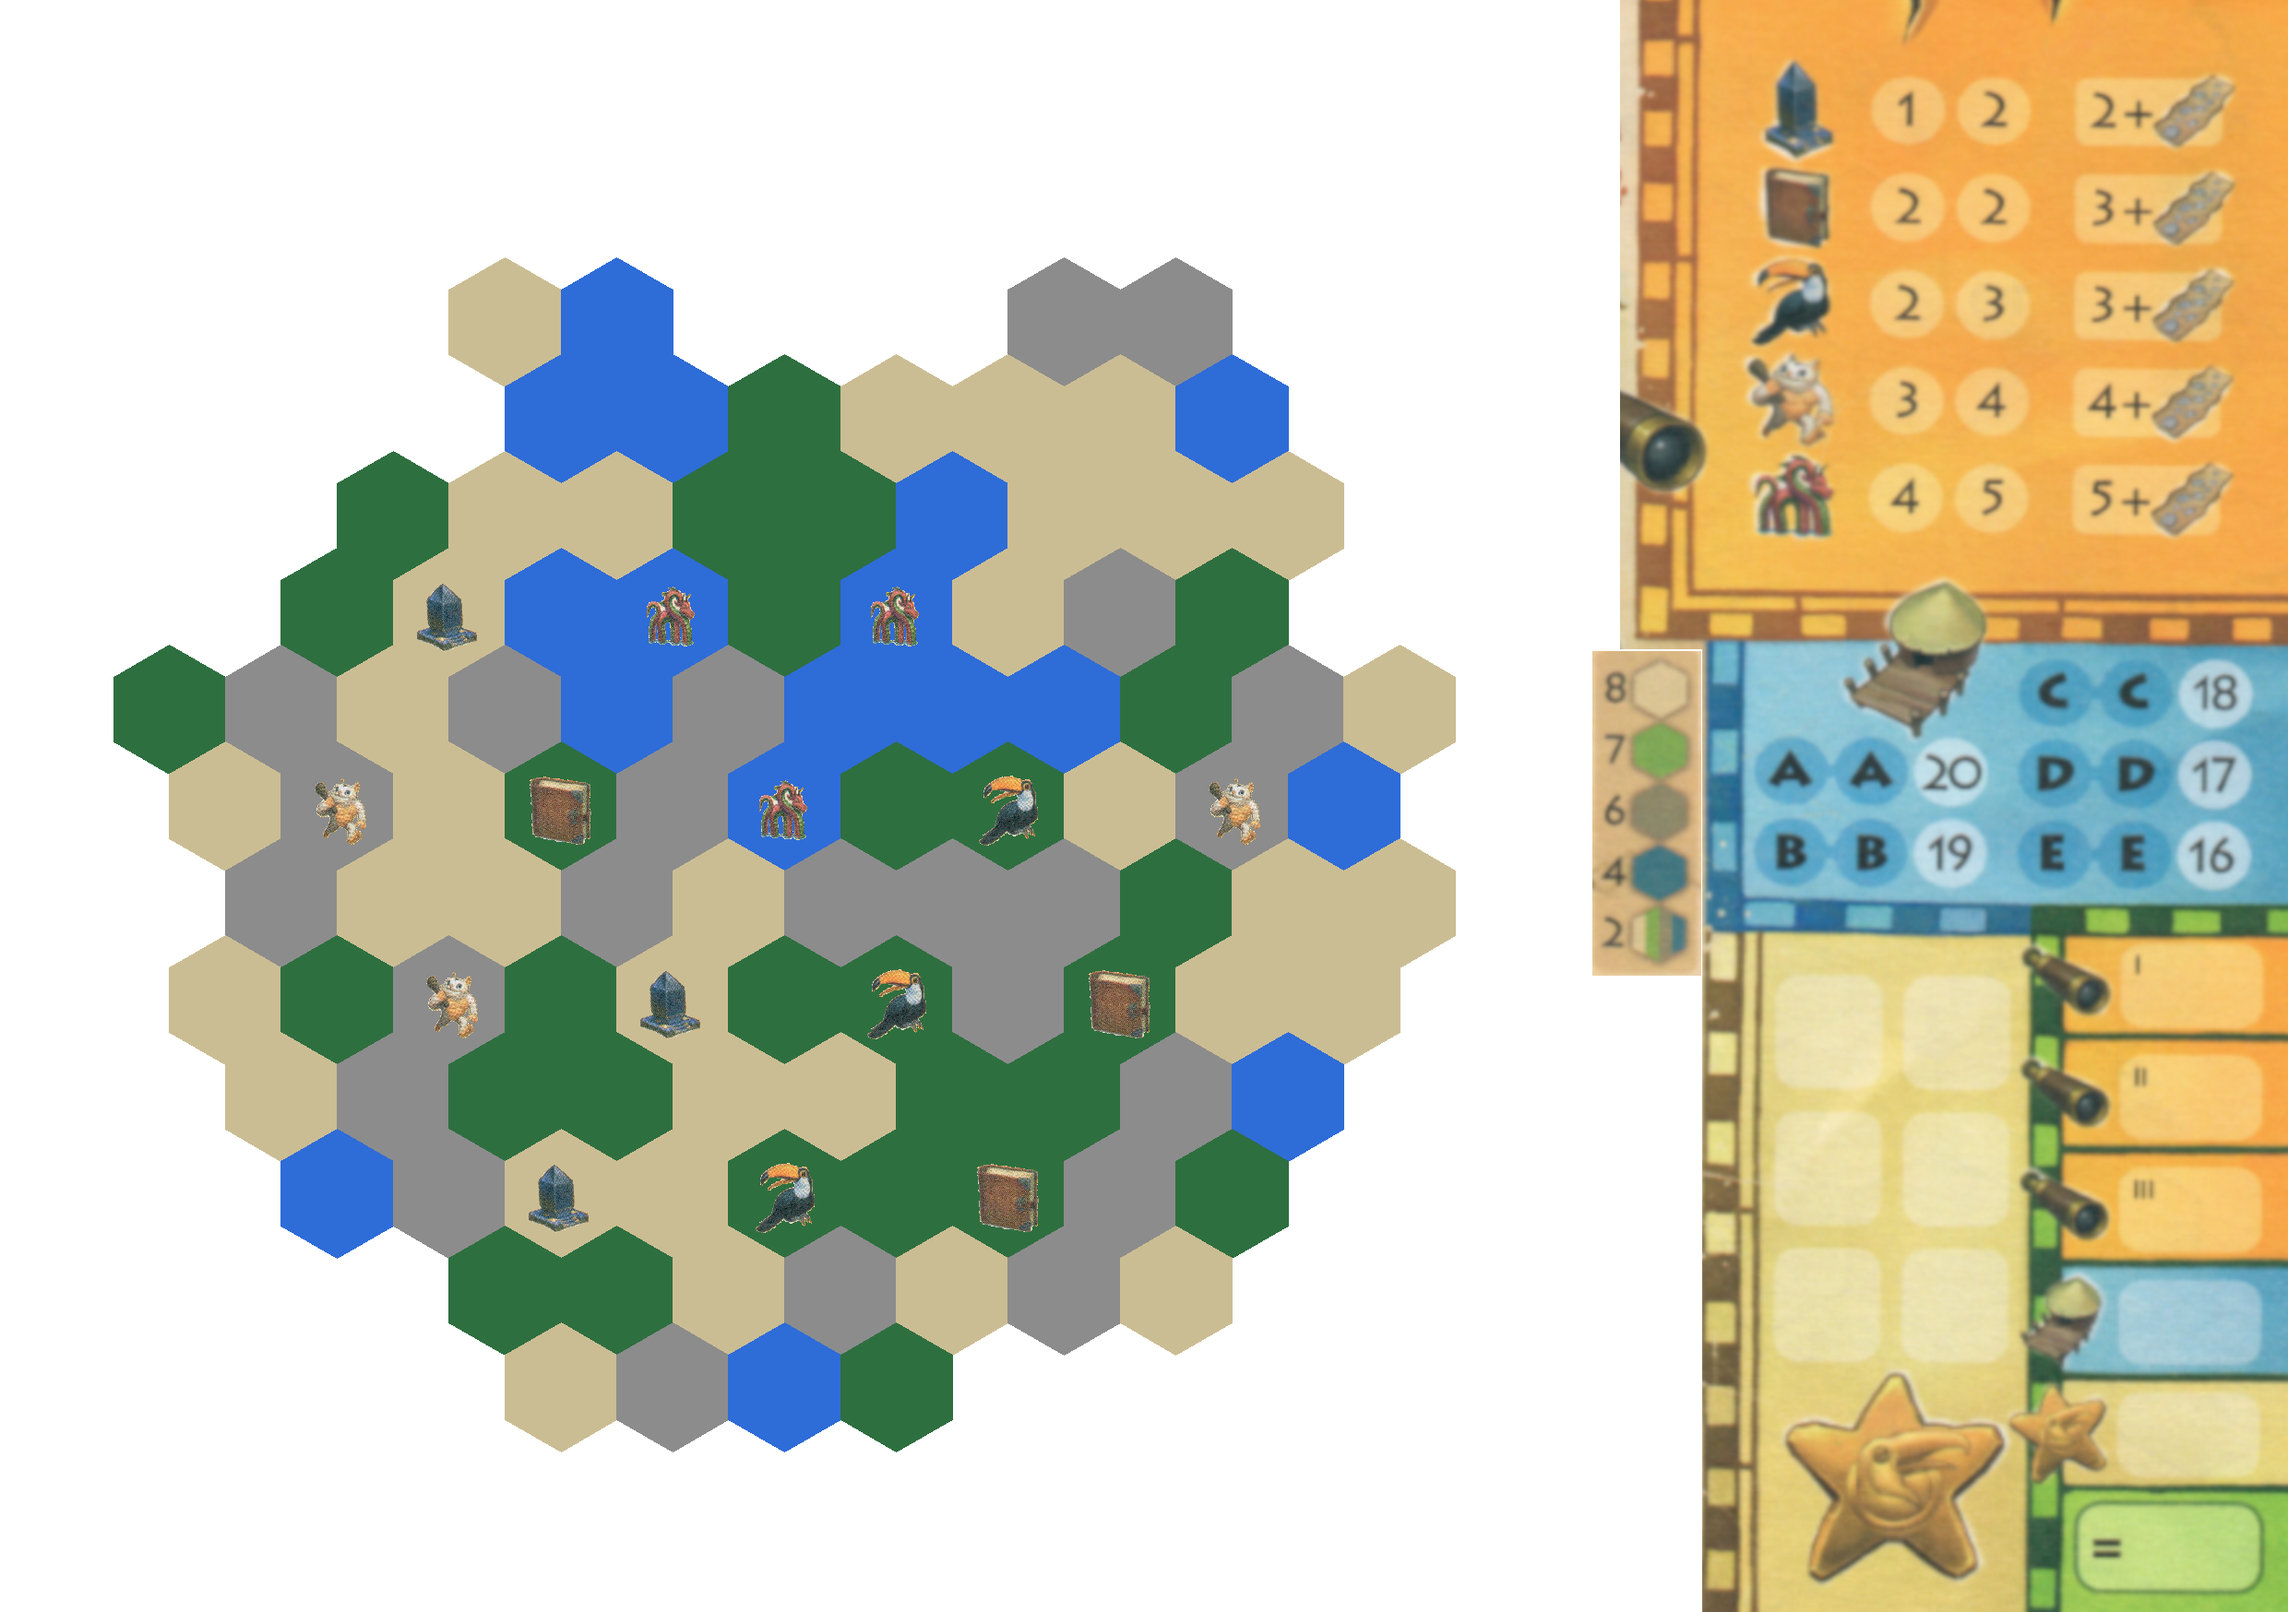
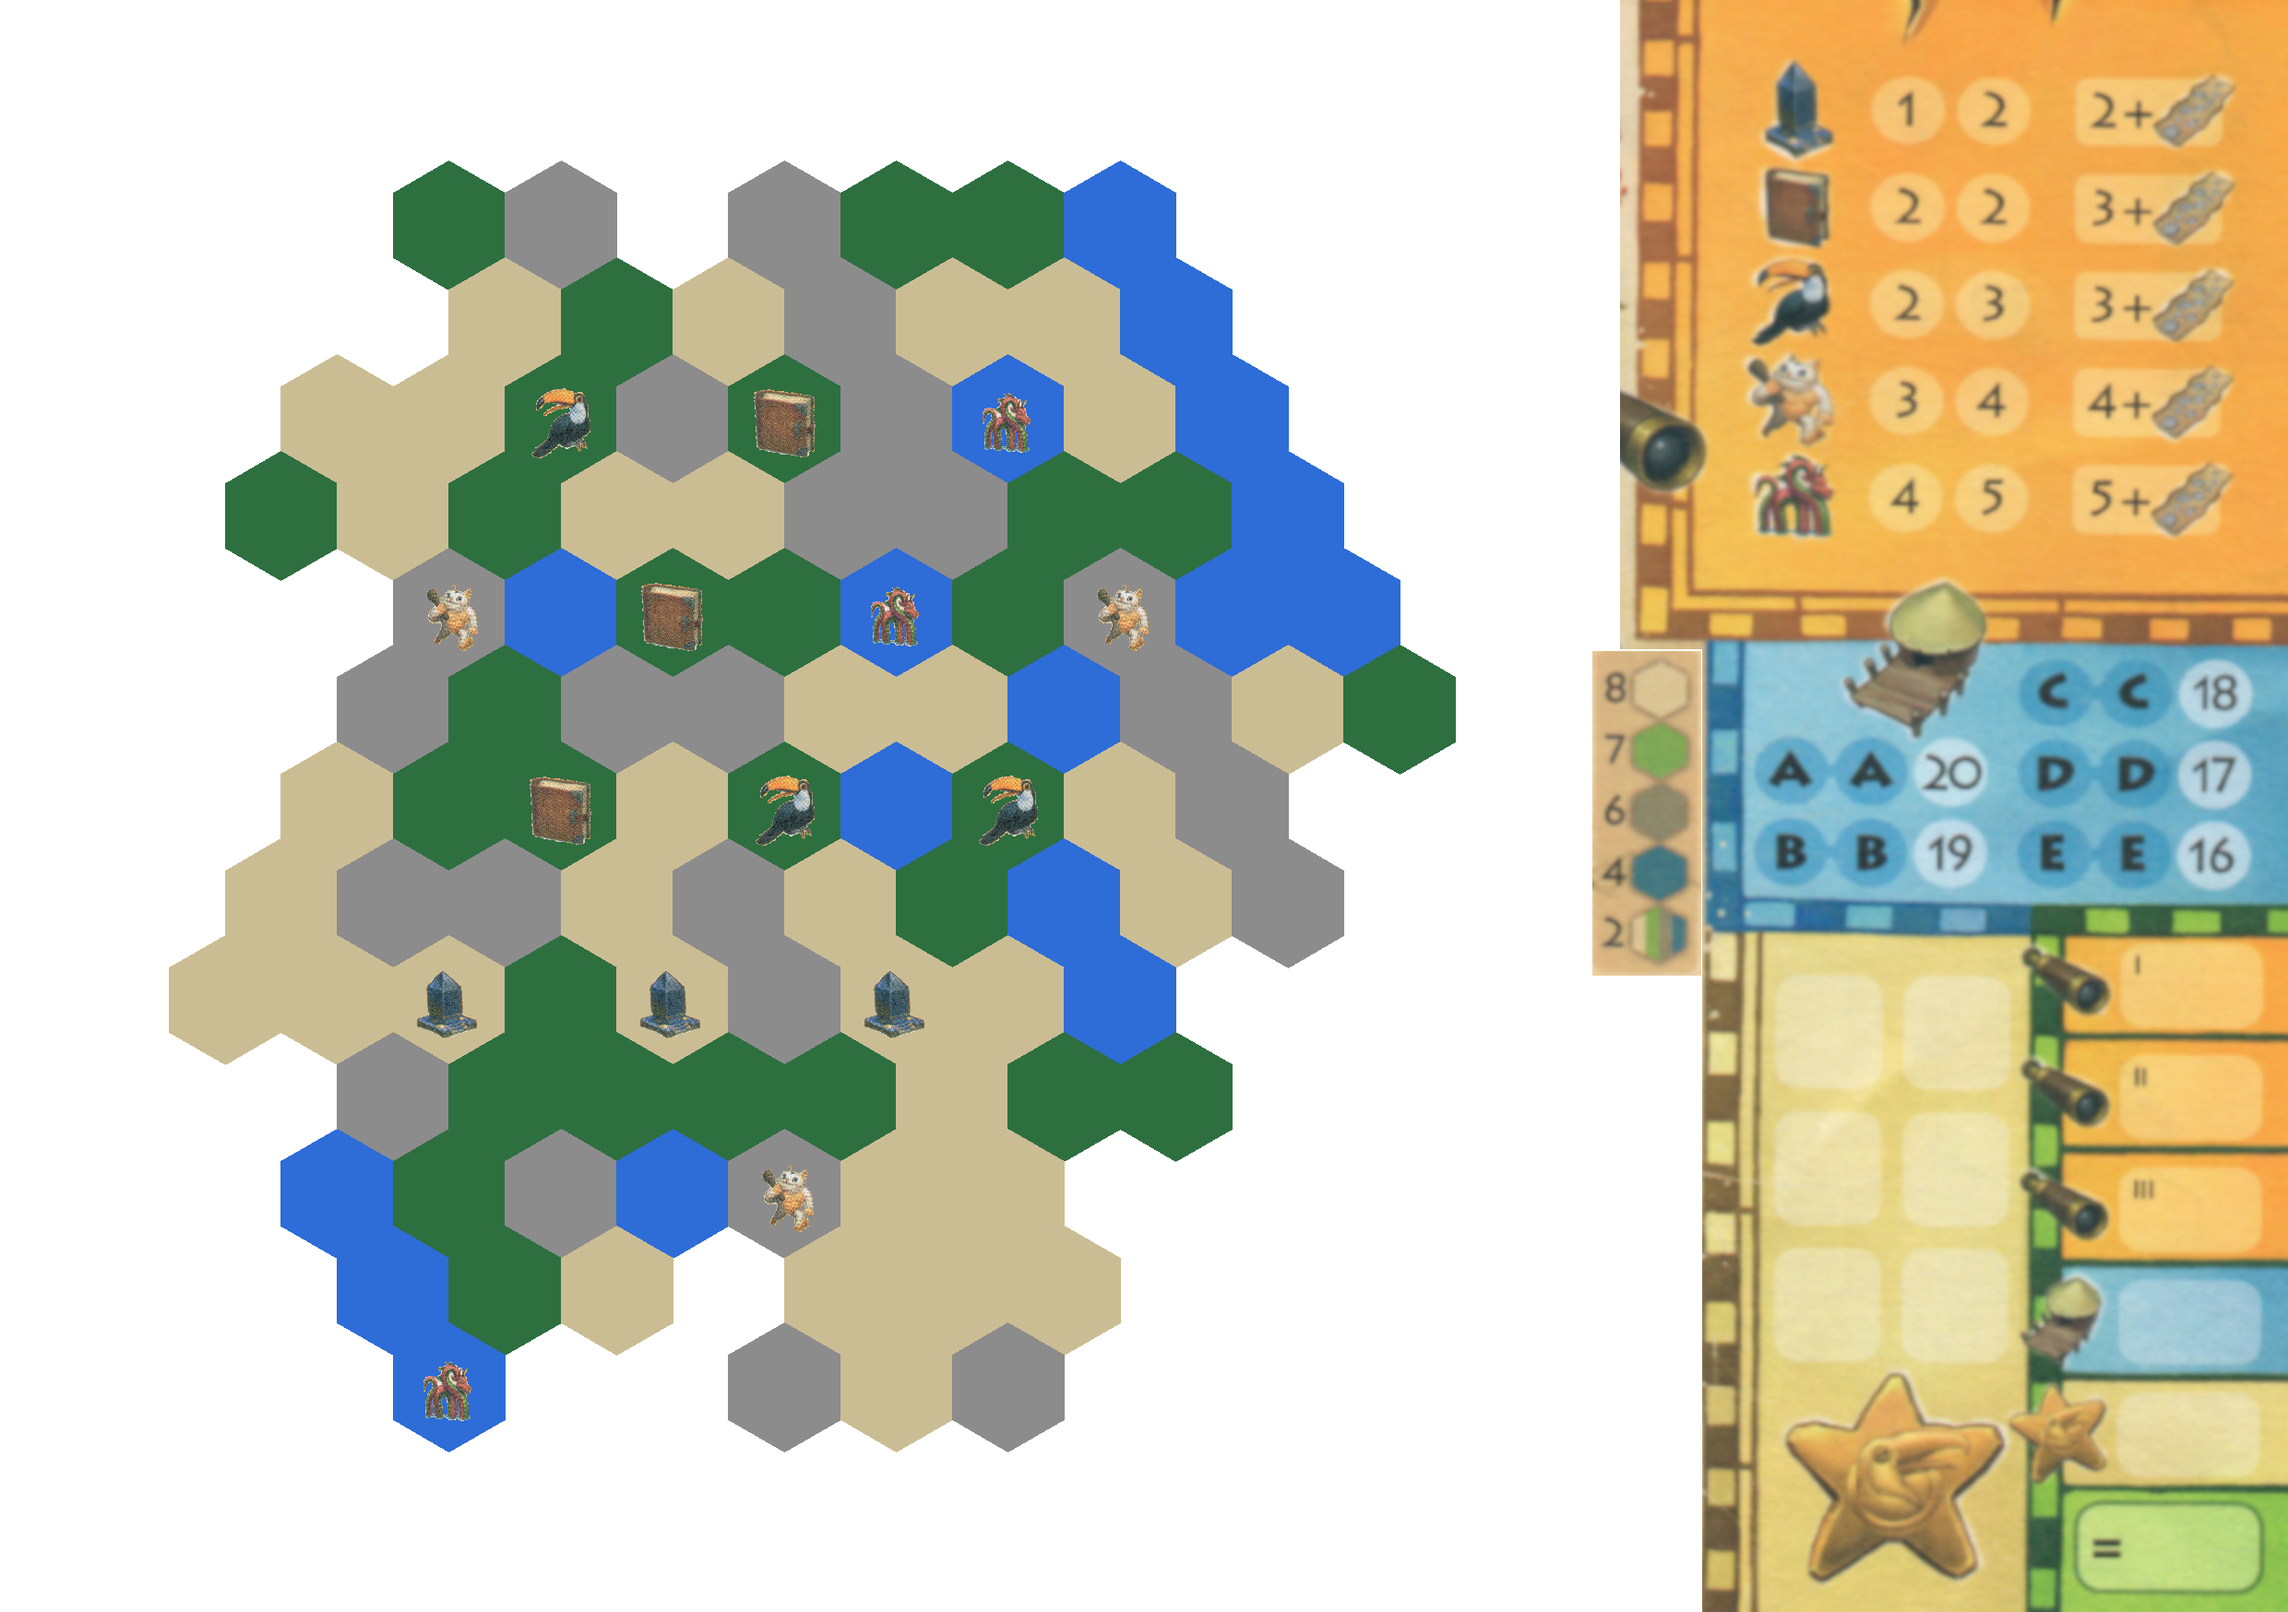
Add ab_glyph dependency and update ImageConfig structure; enhance drawing logic for hexmap

Changed region(s): [[0.031, 0.0927, 0.652, 0.8959]]

diff --git a/src/hexmap.rs b/src/hexmap.rs
@@ -1,7 +1,8 @@
 use std::ops::{Index, IndexMut};
 use hexx::{Hex, storage::{HexStore, HexagonalMap}};
 use image::{Pixel, Rgba};
-use imageproc::drawing::{Canvas, draw_polygon_mut, draw_filled_circle_mut};
+use ab_glyph::{FontArc, PxScale};
+use imageproc::drawing::{Canvas, draw_polygon_mut, draw_filled_circle_mut, draw_text_mut};
 use rand::prelude::*;
 use crate::{drawing::*, tiles::*};
 
@@ -18,7 +19,7 @@ const HEXMAP_RADIUS_SMALL: u32 = 5;
 const MIN_HEX_NEIGHBORS: u8 = 2;
 
 const VILLAGE_COUNT: u8 = 10;
-// const VILLAGE_OFFSET: u8 = 3;
+const VILLAGE_OFFSET: u8 = 3;
 
 const MIN_PROP_DISTANCE: u32 = 2;
 
@@ -29,6 +30,9 @@ const ARTIFACT_COUNT_PER_ART_SMALL: usize =  2;
 
 const IMAGE_PROP_OFFSET_X: u32 = 40;
 const IMAGE_PROP_OFFSET_Y: u32 = 35;
+
+const TEXT_SCALE: f32 = 10.0;
+// const FONT: ??? //TODO
 
 /// Matching for pattern `Option<T>::Some(a)|Option<T>::None`.
 /// 
@@ -501,8 +505,7 @@ impl TileMap_props {
                 |_| PropOption::NotAllowed), 
             size: from.size
         };
-        // output.place_villages(from)?;
-        //FIXME add this back
+        output.place_villages(from)?;
         if output.has_invalid_villages() {
             Err("found villages placed too close to each others")?;
         }
@@ -535,7 +538,7 @@ impl TileMap_props {
         assert_eq!(village_pos.len(), VILLAGE_COUNT as usize, "invalid number of villages. Expected {VILLAGE_COUNT}, got {}.", village_pos.len());
 
         for (id, hex) in village_pos.iter().enumerate() {
-            self[*hex].give_prop(Prop::Village(id as u8 + 1), true);
+            self[*hex].give_prop(Prop::Village((id as u8 + 1 + VILLAGE_OFFSET) % VILLAGE_COUNT), true);
         };
         Ok(())
     }
@@ -663,19 +666,10 @@ impl DrawHexMap<PropOption> for TileMap_props {
 
     fn draw_element<C: Canvas<Pixel = Self::ColorSpace>>(&self, img: &mut C, hex: Hex, value: &PropOption, image_config: ImageConfig) {
         let pos = get_pos(hex, image_config);
-        let points = get_hex_points(pos, image_config.radius);
-        let color = if false {
-            // hex == Hex::ZERO
-            rgba!(255, 0, 0)
+        if let PropOption::Some(prop) = *value {
+            let prop_color = prop.get_color();
+            draw_filled_circle_mut(img, (pos.x as i32, pos.y as i32), (image_config.radius * PROP_RADIUS_MULTI) as i32, prop_color);
         }
-        else {
-            match value {
-                PropOption::Some(prop) => prop.get_color(),
-                PropOption::NotAllowed => rgba!(0, 0, 0, 0),
-                PropOption::CanHave => panic!("attempted to draw empty artifact slot at {hex:?}")
-            }
-        };
-        draw_polygon_mut(img, &points, color)
     }
 }
 
@@ -706,11 +700,6 @@ impl TileMap {
                 size: templates.size 
             }
         )
-    }
-
-    #[inline(always)]
-    pub fn iter(&self) -> impl Iterator<Item = (Hex, &Tile)> {
-        self.map.iter()
     }
 }
 
@@ -775,15 +764,18 @@ impl DrawHexMap<Tile> for TileMap {
             draw_polygon_mut(img, &points, template.color());
 
             if let PropOption::Some(prop) = prop_option {
-                // let prop_color = prop.get_color();
-                // draw_filled_circle_mut(img, (pos.x as i32, pos.y as i32), (image_config.radius * PROP_RADIUS_MULTI) as i32, prop_color);
-                let prop_image = prop.get_image();
-                for (x, y, pixel) in prop_image.enumerate_pixels() {
-                    if pixel.alpha() > 0 {
-                        img.draw_pixel(
-                            pos.x as u32 + x - IMAGE_PROP_OFFSET_X, 
-                            pos.y as u32 + y - IMAGE_PROP_OFFSET_Y, 
-                            *pixel);
+                if matches!(prop, Prop::Village(_)) {
+                    // draw_text_mut(img, rgba!(0, 0, 0), pos.x as i32, pos.y as i32, PxScale::from(TEXT_SCALE), FONT);
+                }
+                else {
+                    let prop_image = prop.get_image();
+                    for (x, y, pixel) in prop_image.enumerate_pixels() {
+                        if pixel.alpha() > 0 {
+                            img.draw_pixel(
+                                pos.x as u32 + x - IMAGE_PROP_OFFSET_X, 
+                                pos.y as u32 + y - IMAGE_PROP_OFFSET_Y, 
+                                *pixel);
+                        }
                     }
                 }
             }

diff --git a/src/main.rs b/src/main.rs
@@ -45,8 +45,8 @@ fn main() -> Result<(), Box<dyn Error>> {
     // let mut image = ImageBuffer::new(WIDTH, HEIGHT);
     let mut image = image::open(match_size!(size, r"src\img\background_big.png", r"src\img\background_small.png"))?.into_rgba8();
     let image_config = ImageConfig { 
-        // height: HEIGHT, 
-        // width: WIDTH, 
+        height: HEIGHT, 
+        width: WIDTH, 
         radius: match_size!(size, HEX_RADIUS_BIG, HEX_RADIUS_SMALL),
         hexmap_offset: HEXMAP_OFFSET
     };

diff --git a/src/tiles.rs b/src/tiles.rs
@@ -165,7 +165,7 @@ impl Prop {
     #[must_use]
     pub fn get_image(self) -> ImageBuffer<Rgba<u8>, Vec<u8>> {
         let path = match self {
-            Prop::Village(_)  => "",
+            Prop::Village(_)  => panic!("Prop::Village does not have assiociated image"),
             Prop::Monolith    => r"src\img\artifacts\Obelisk.png",
             Prop::Book        => r"src\img\artifacts\Book.png",
             Prop::Bird        => r"src\img\artifacts\Bird.png",

diff --git a/src/drawing.rs b/src/drawing.rs
@@ -6,8 +6,8 @@ use imageproc::drawing::Canvas;
 
 #[derive(Clone, Copy)]
 pub struct ImageConfig {
-    // pub width: u32,
-    // pub height: u32,
+    pub width: u32,
+    pub height: u32,
     pub radius: f32,
 
     pub hexmap_offset: Vec2
